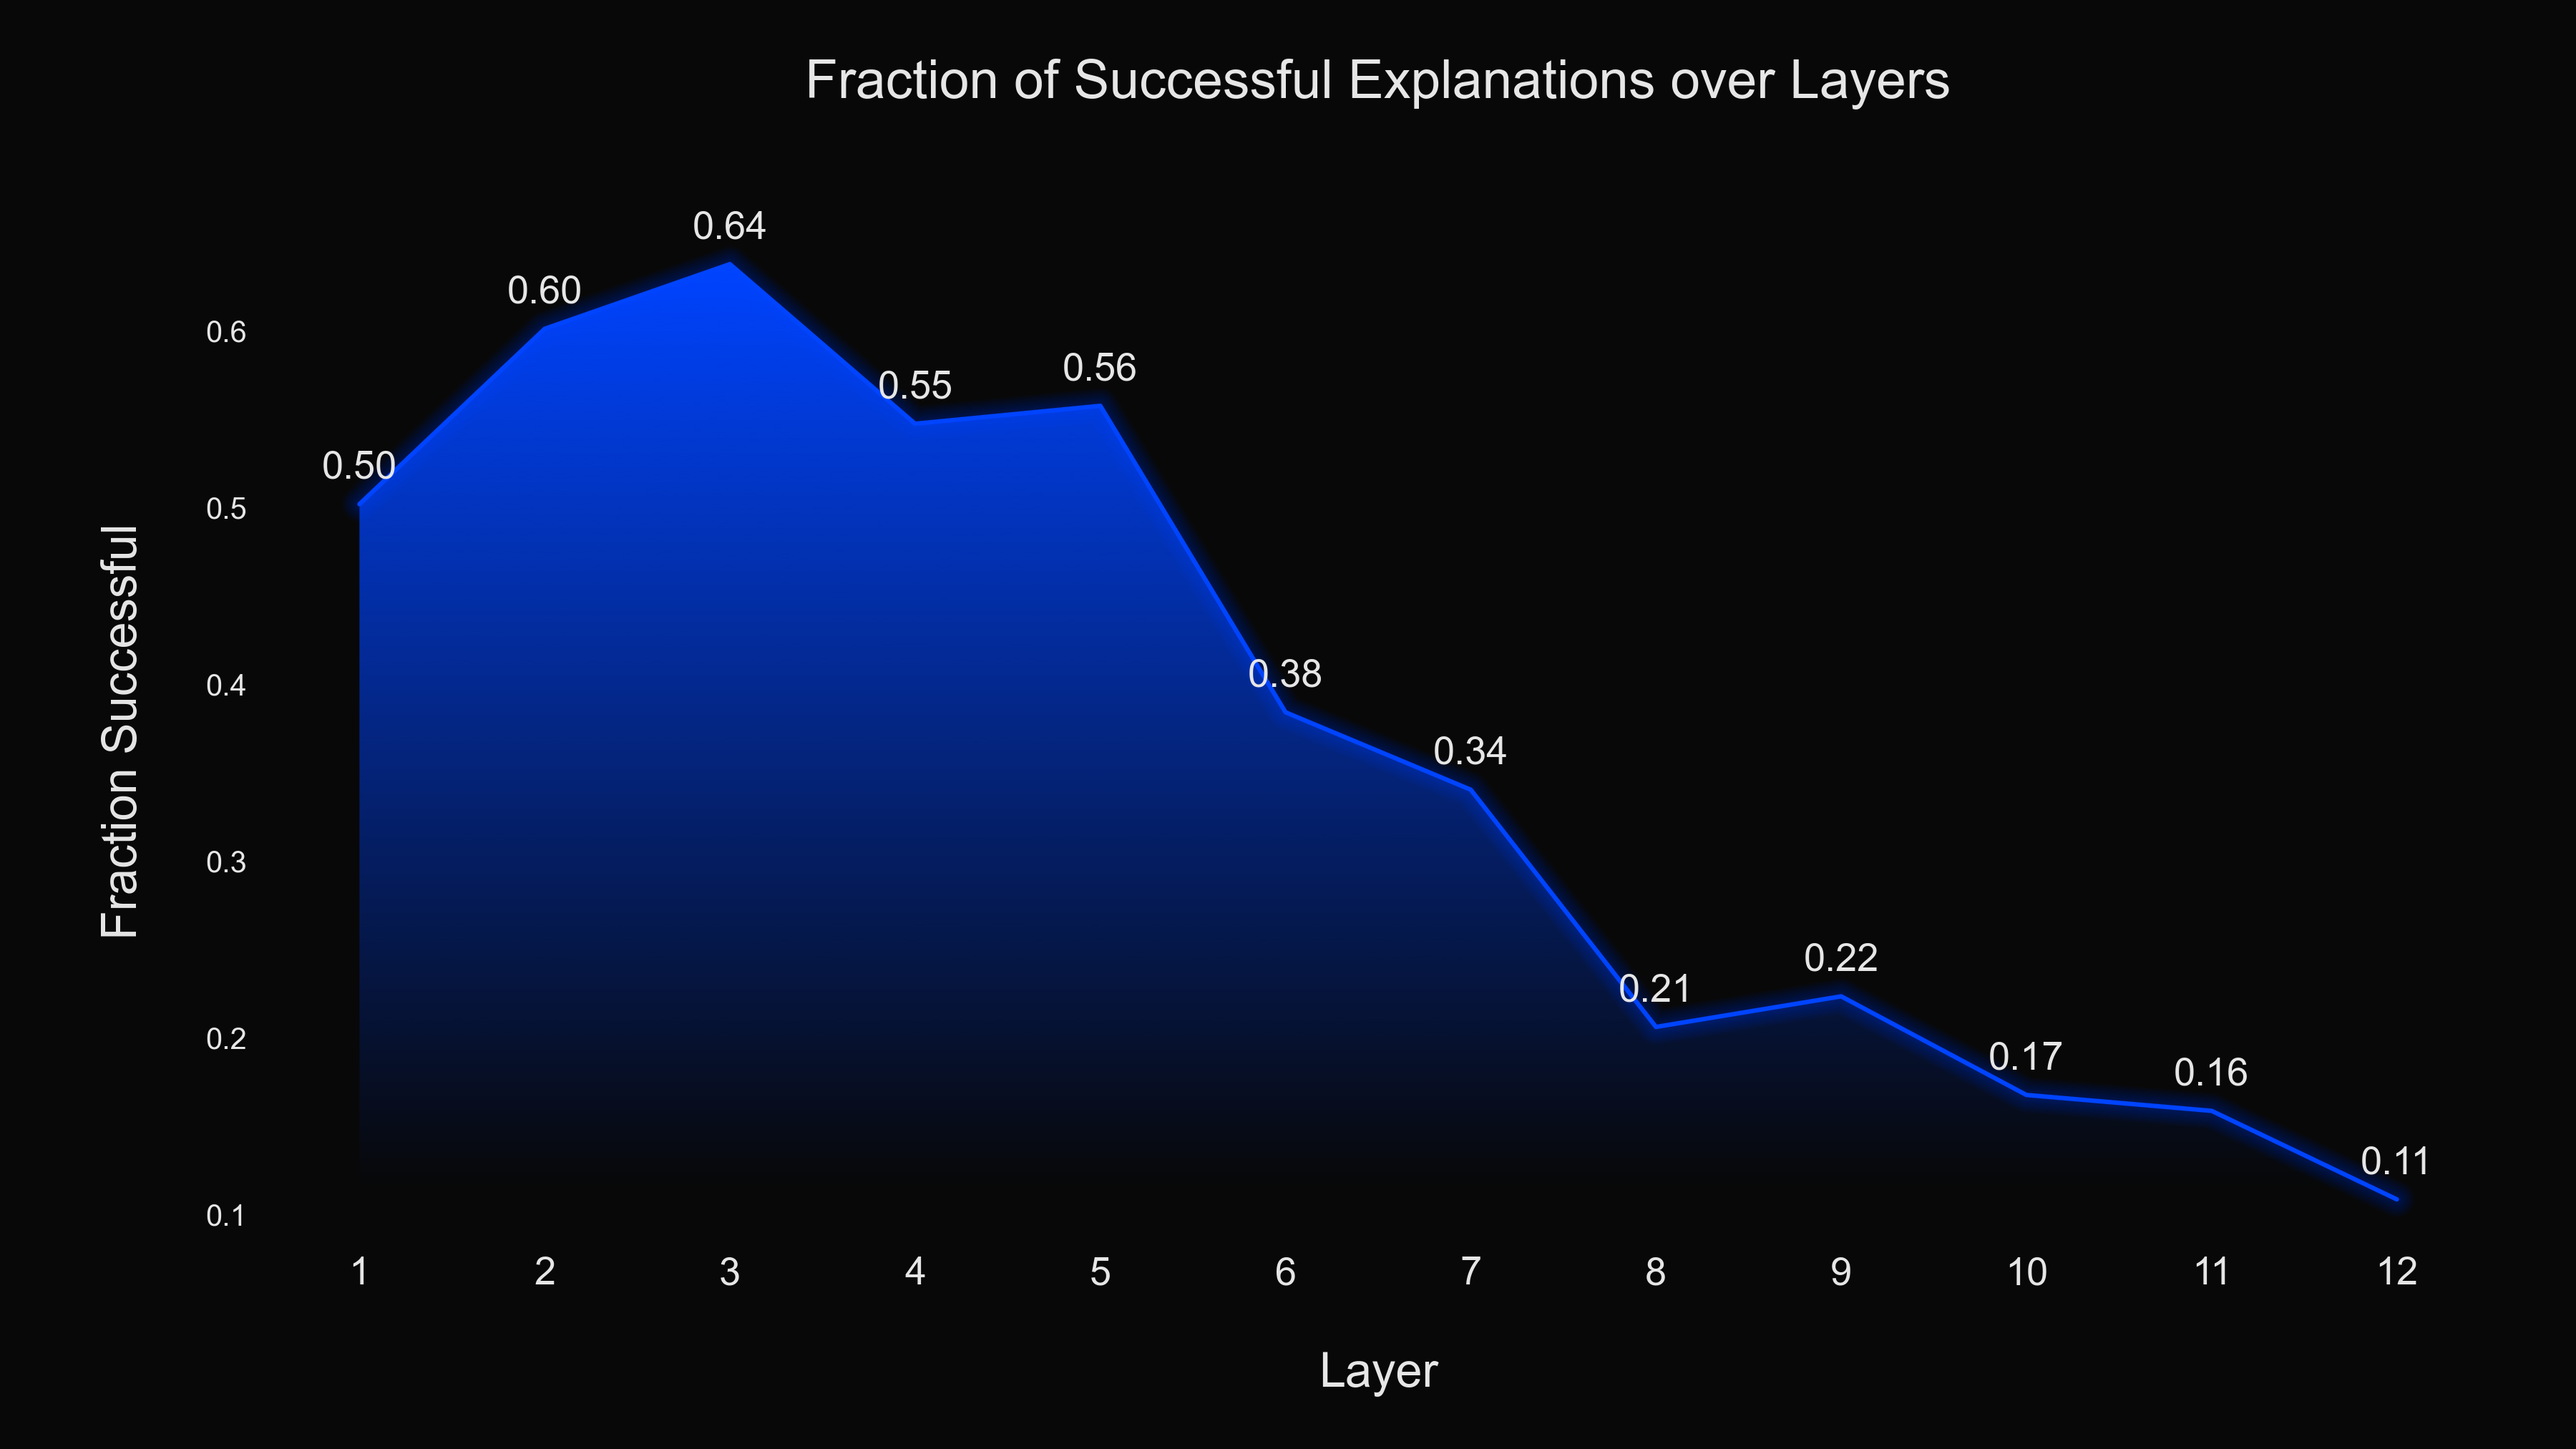
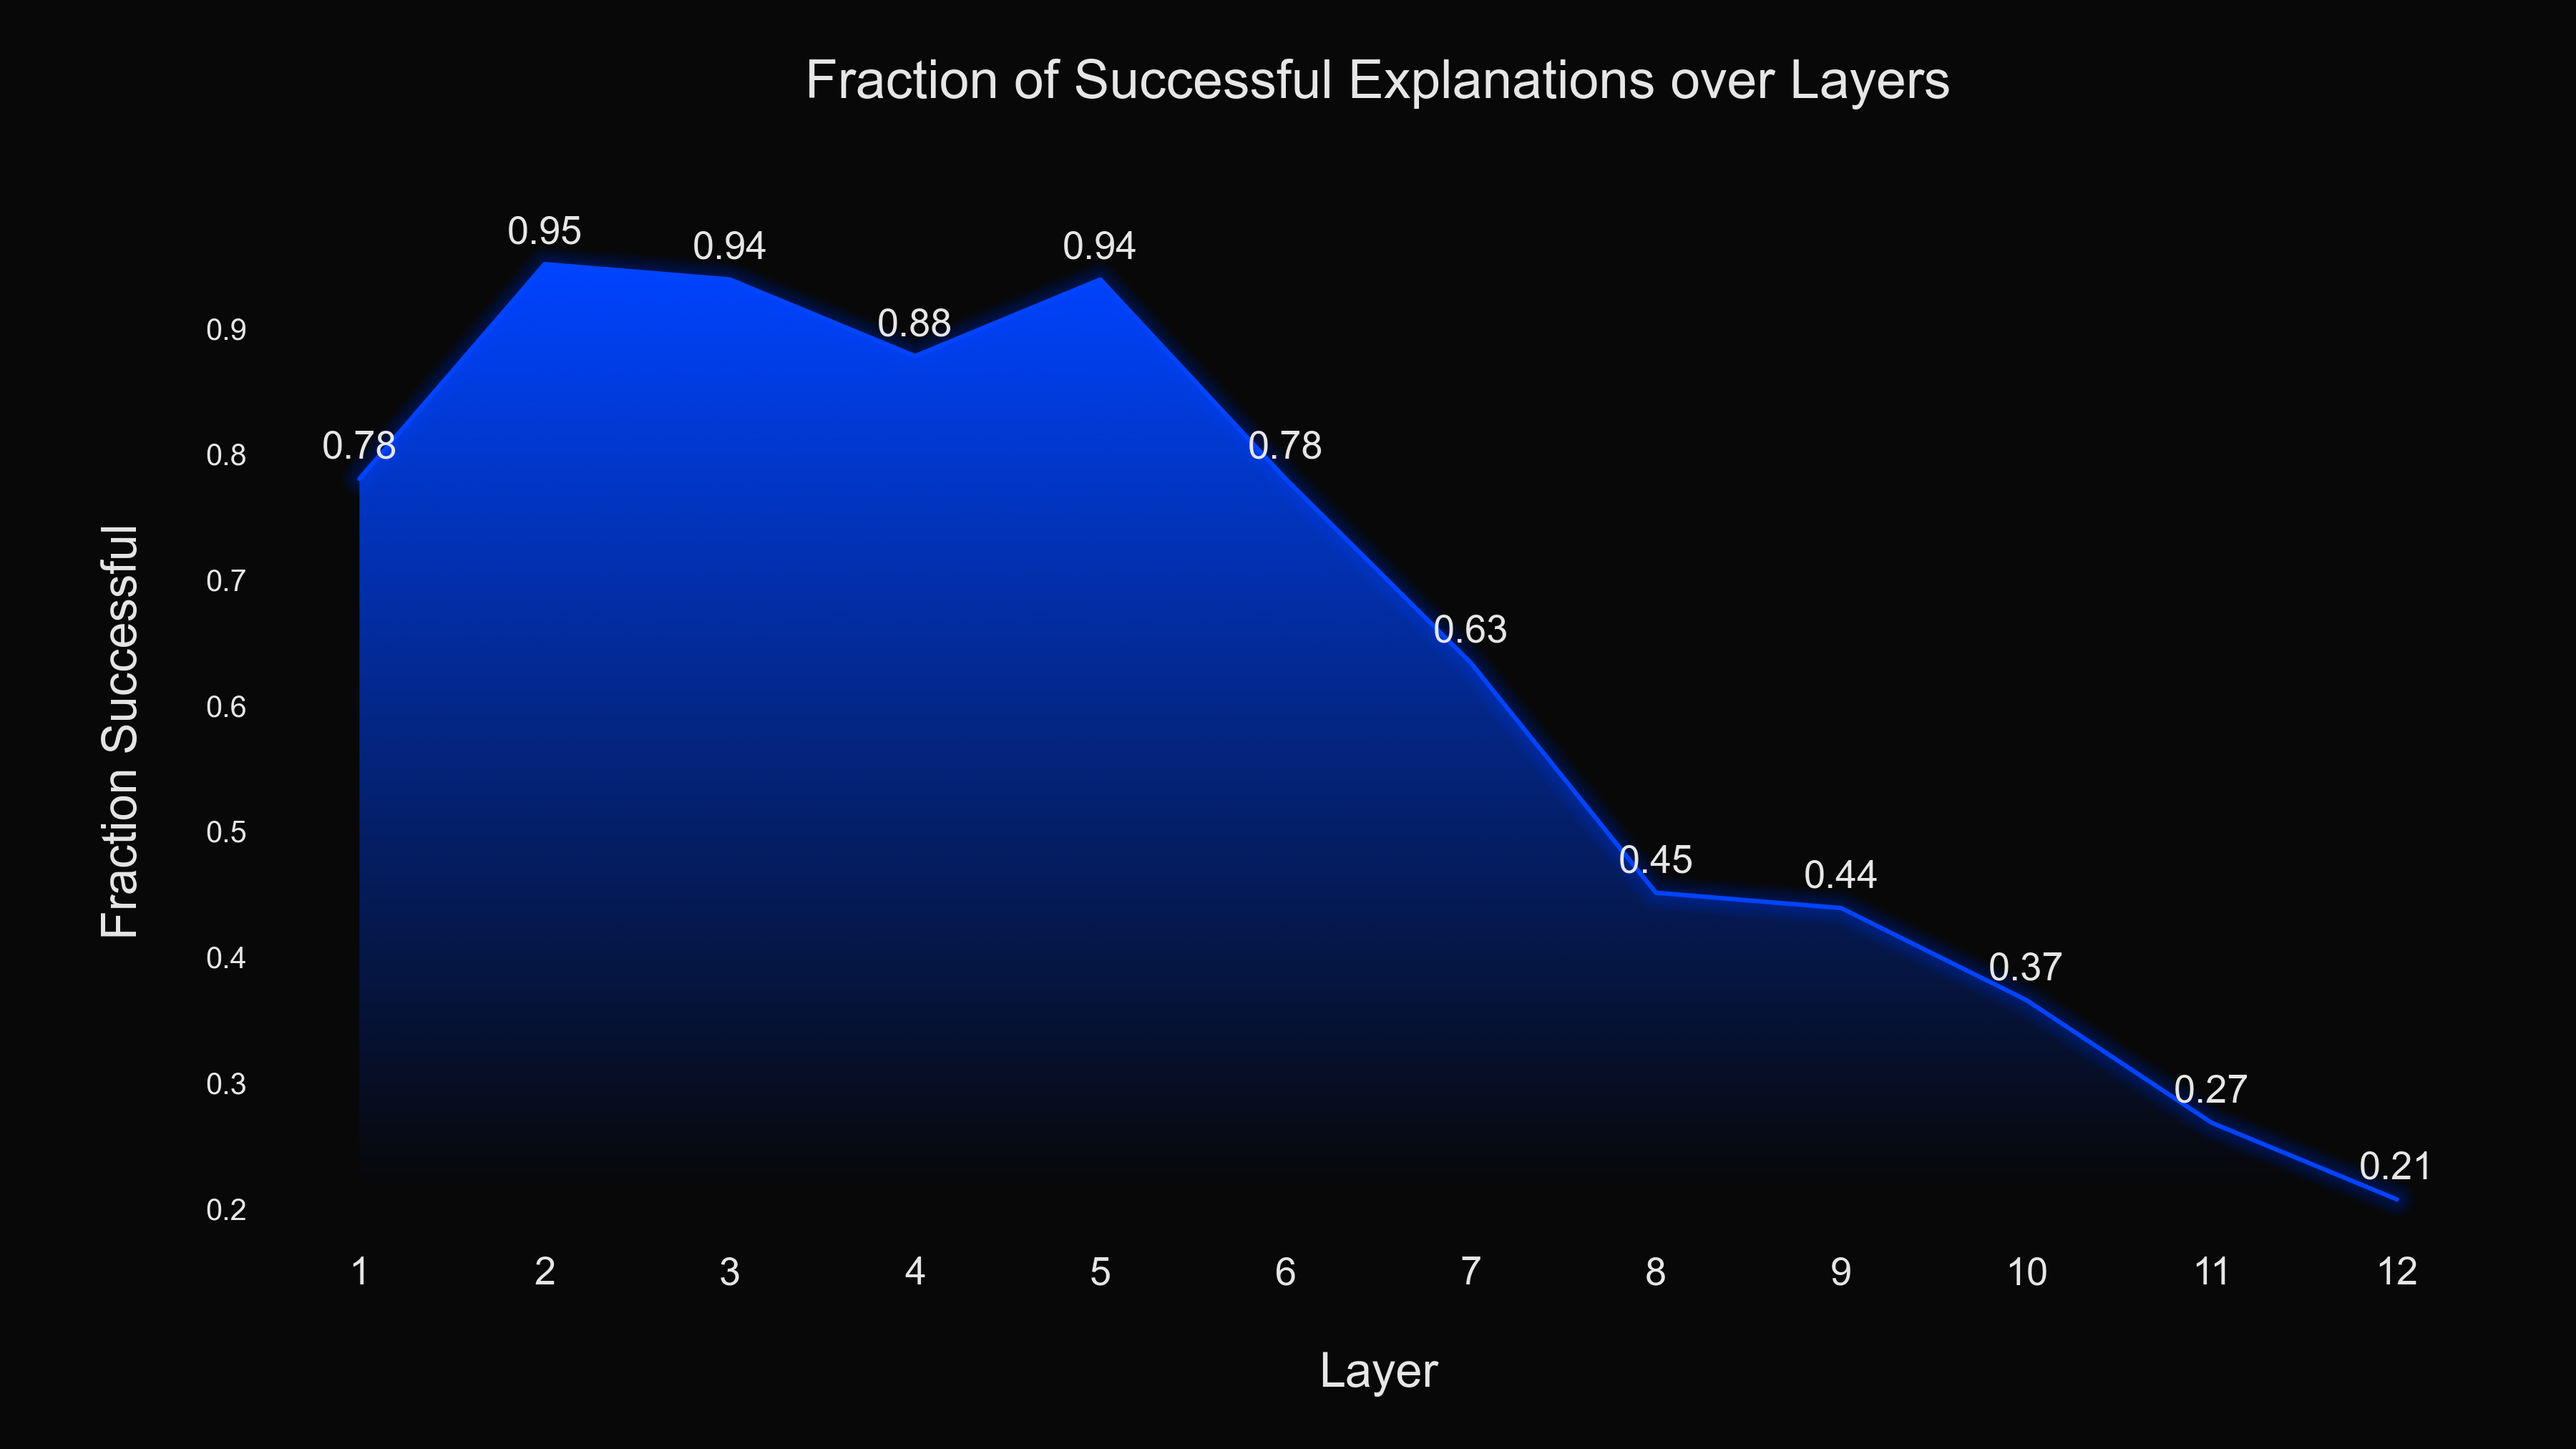
Improvements to display_eval_results.py

Changed region(s): [[0.1244, 0.1556, 0.9333, 0.84], [0.0622, 0.4667, 0.0933, 0.4978]]

diff --git a/display_eval_results.py b/display_eval_results.py
@@ -22,24 +22,60 @@ for layer_index in range(12):
 
 
 
+# # Fractions of Successful Explanations over Layers
+
+# eval_layers_success_fractions = [
+#     len([item for item in layer_eval_data if "success" in item and item["success"] is True]) / len([item for item in layer_eval_data if "success" in item])
+#     for layer_eval_data in eval_data
+# ]
+
+# layer_labels = [str(i+1) for i in range(12)]
+
+# layer_success_df = pd.DataFrame(
+#    dict(
+#       layers=layer_labels,
+#       values=eval_layers_success_fractions
+#    )
+# )
+
+# plt.figure(figsize=(1920 / 160, 1080 / 160), facecolor=background_colour)
+# plt.plot(layer_labels, eval_layers_success_fractions, color="#0044ff")
+# for i, value in enumerate(list(layer_success_df["values"])):
+#     plt.text(i, value+0.01, "{:.2f}".format(value), ha='center', va="bottom", fontsize=13)
+# plt.xticks(ha='center', fontsize=13)
+# plt.xlabel("Layer", fontsize=16, labelpad=20)
+# plt.ylabel("Fraction Successful", fontsize=16, labelpad=20)
+# plt.title("Fraction of Successful Explanations over Layers", fontsize=18, pad=40)
+# mplcyberpunk.add_glow_effects(gradient_fill=True)
+# plt.subplots_adjust(left=0.1, bottom=0.14, right=0.97, top=0.85, wspace=0.2, hspace=0.2)
+# plt.savefig("Fractions of Successful Explanations over Layers.png", facecolor=background_colour, dpi=300)
+
+
+
+
+
 # Fractions of Successful Explanations over Layers
 
-eval_layers_success_fractions = [
-    len([item for item in layer_eval_data if "success" in item and item["success"] is True]) / len([item for item in layer_eval_data if "success" in item])
-    for layer_eval_data in eval_data
-]
+eval_layers_latents_success_fractions = []
+for layer_index in range(12):
+    layer_eval_data = eval_data[layer_index]
+    layer_success_count = 0
+    for latent_index in range(82):
+        if len([item for item in layer_eval_data if item["latent_index"] == latent_index and "success" in item and item["success"] is True]) != 0:
+            layer_success_count += 1
+    eval_layers_latents_success_fractions.append(layer_success_count/82)
 
 layer_labels = [str(i+1) for i in range(12)]
 
 layer_success_df = pd.DataFrame(
    dict(
       layers=layer_labels,
-      values=eval_layers_success_fractions
+      values=eval_layers_latents_success_fractions
    )
 )
 
 plt.figure(figsize=(1920 / 160, 1080 / 160), facecolor=background_colour)
-plt.plot(layer_labels, eval_layers_success_fractions, color="#0044ff")
+plt.plot(layer_labels, eval_layers_latents_success_fractions, color="#0044ff")
 for i, value in enumerate(list(layer_success_df["values"])):
     plt.text(i, value+0.01, "{:.2f}".format(value), ha='center', va="bottom", fontsize=13)
 plt.xticks(ha='center', fontsize=13)
